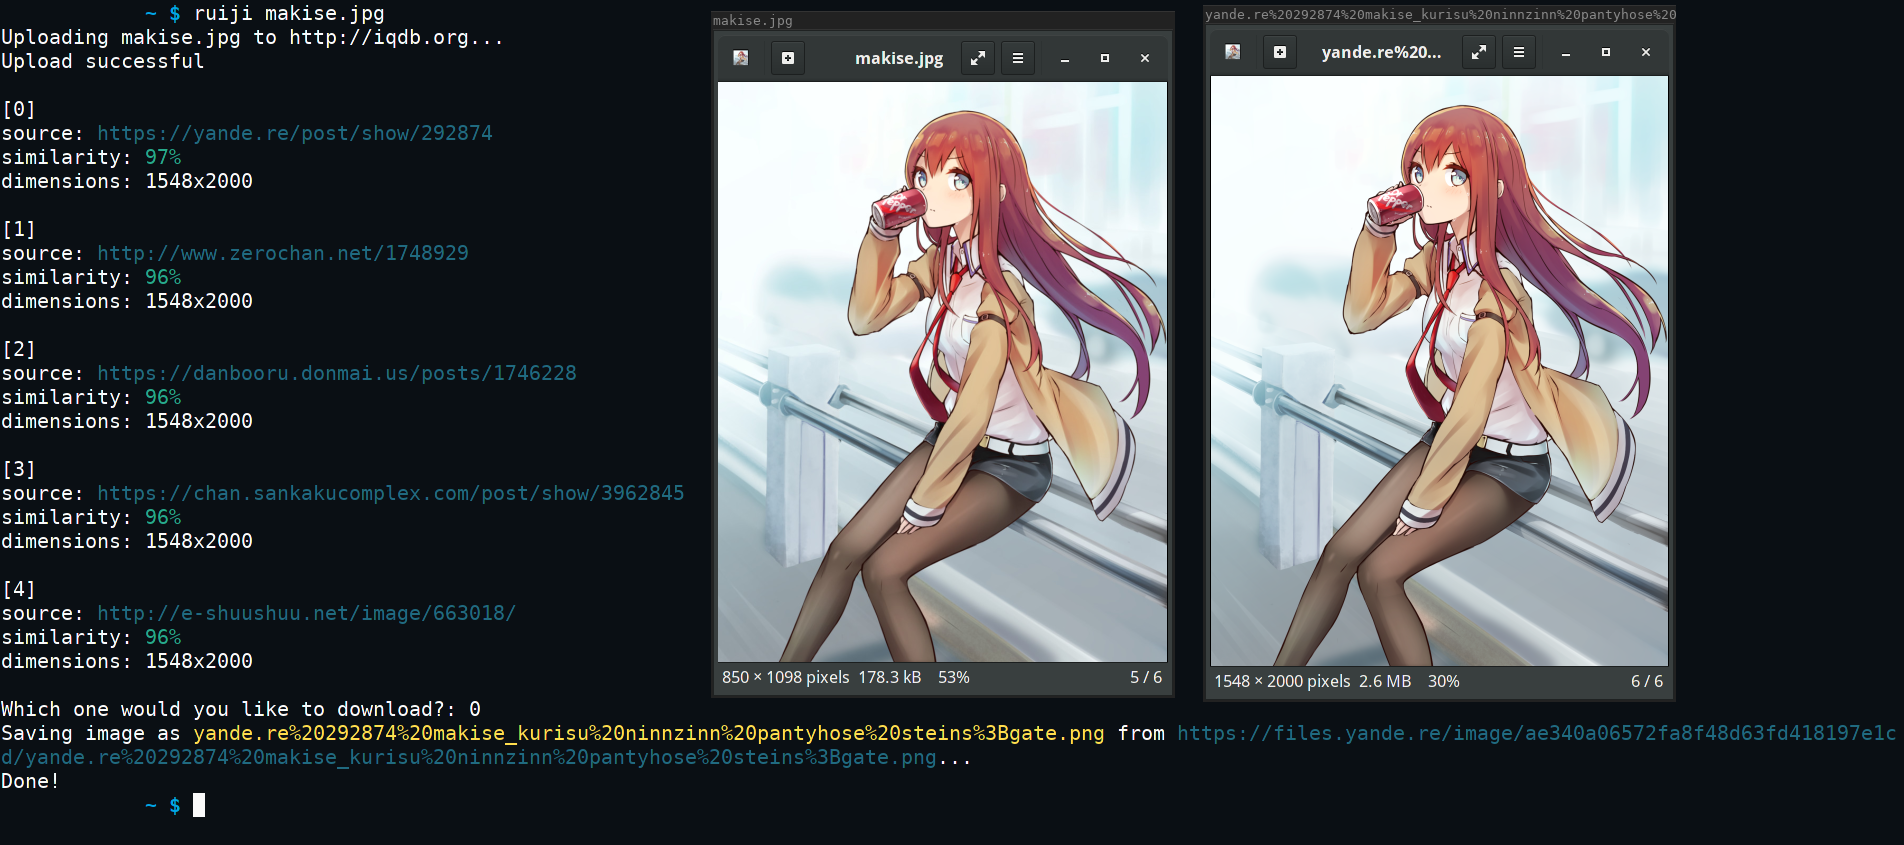
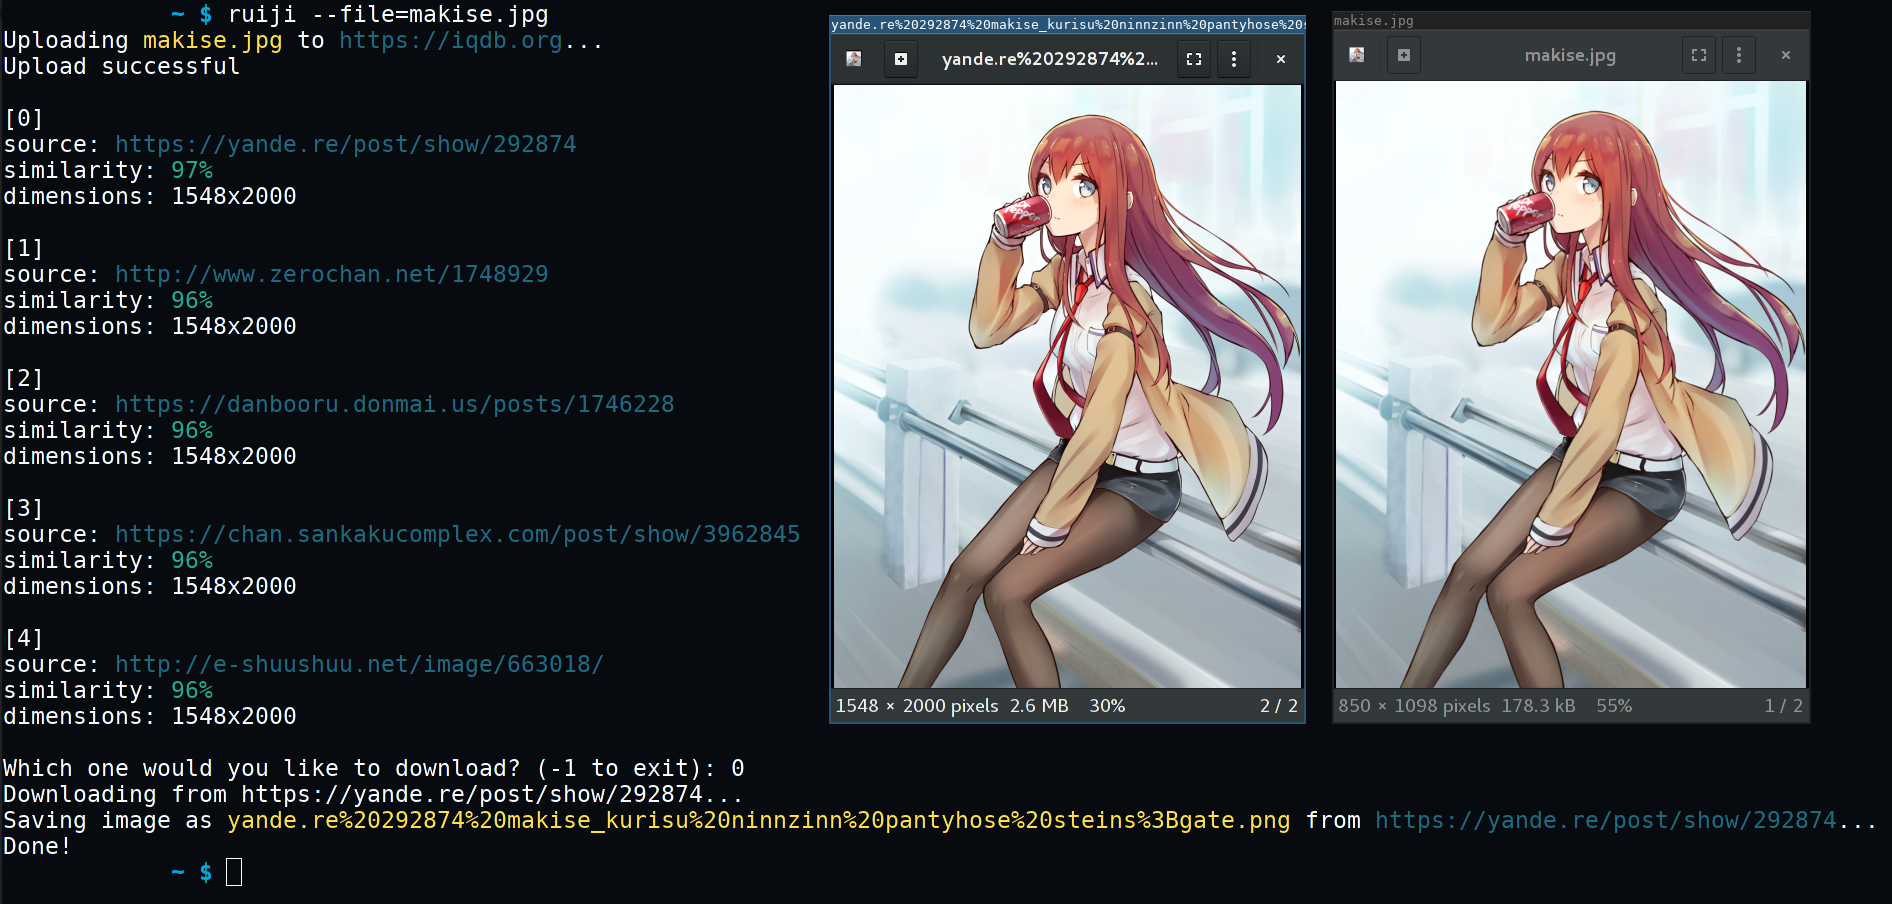
changes:
- update screenshot
- fixed bug with not being able to parse image file name

diff --git a/src/parser.c b/src/parser.c
@@ -185,11 +185,10 @@ struct similar_image *get_most_similar_image(struct similar_image_db *sim_db)
 char *get_server_file_name(char *web_url, char stop) {
 	/* Go through and get the last section of a url */
 	char *slash_index;
-	int index = strlen(web_url);
-	/* interate through the string backwards till we find a '/' */
-	while (web_url[index] == '/') {
+	int index = strlen(web_url) - 1;
+	/* interate through the string backwards until we find a '/' */
+	while (web_url[index] != '/')
 		index--;
-	}
 	/* get memory address we stopped at */
 	slash_index = &(web_url[index+1]);
 

diff --git a/src/ruiji.c b/src/ruiji.c
@@ -186,7 +186,7 @@ int main(int argc, char *argv[])
 			char stop_seq = '\0';
 			/* get source image url */
 			char *dl_url = get_image_url(dl_image->link, &stop_seq);
-	
+
 			printf("Downloading from %s...\n", dl_image->link);
 			if (dl_url) {
 				/* get the name of the file */
@@ -201,7 +201,7 @@ int main(int argc, char *argv[])
 				free(file_save_name);
 				free(dl_url);
 			}
-	
+			/* Report back to the user how the download went */
 			if (!dl_state)
 				printf("Done!\n");
 			else
